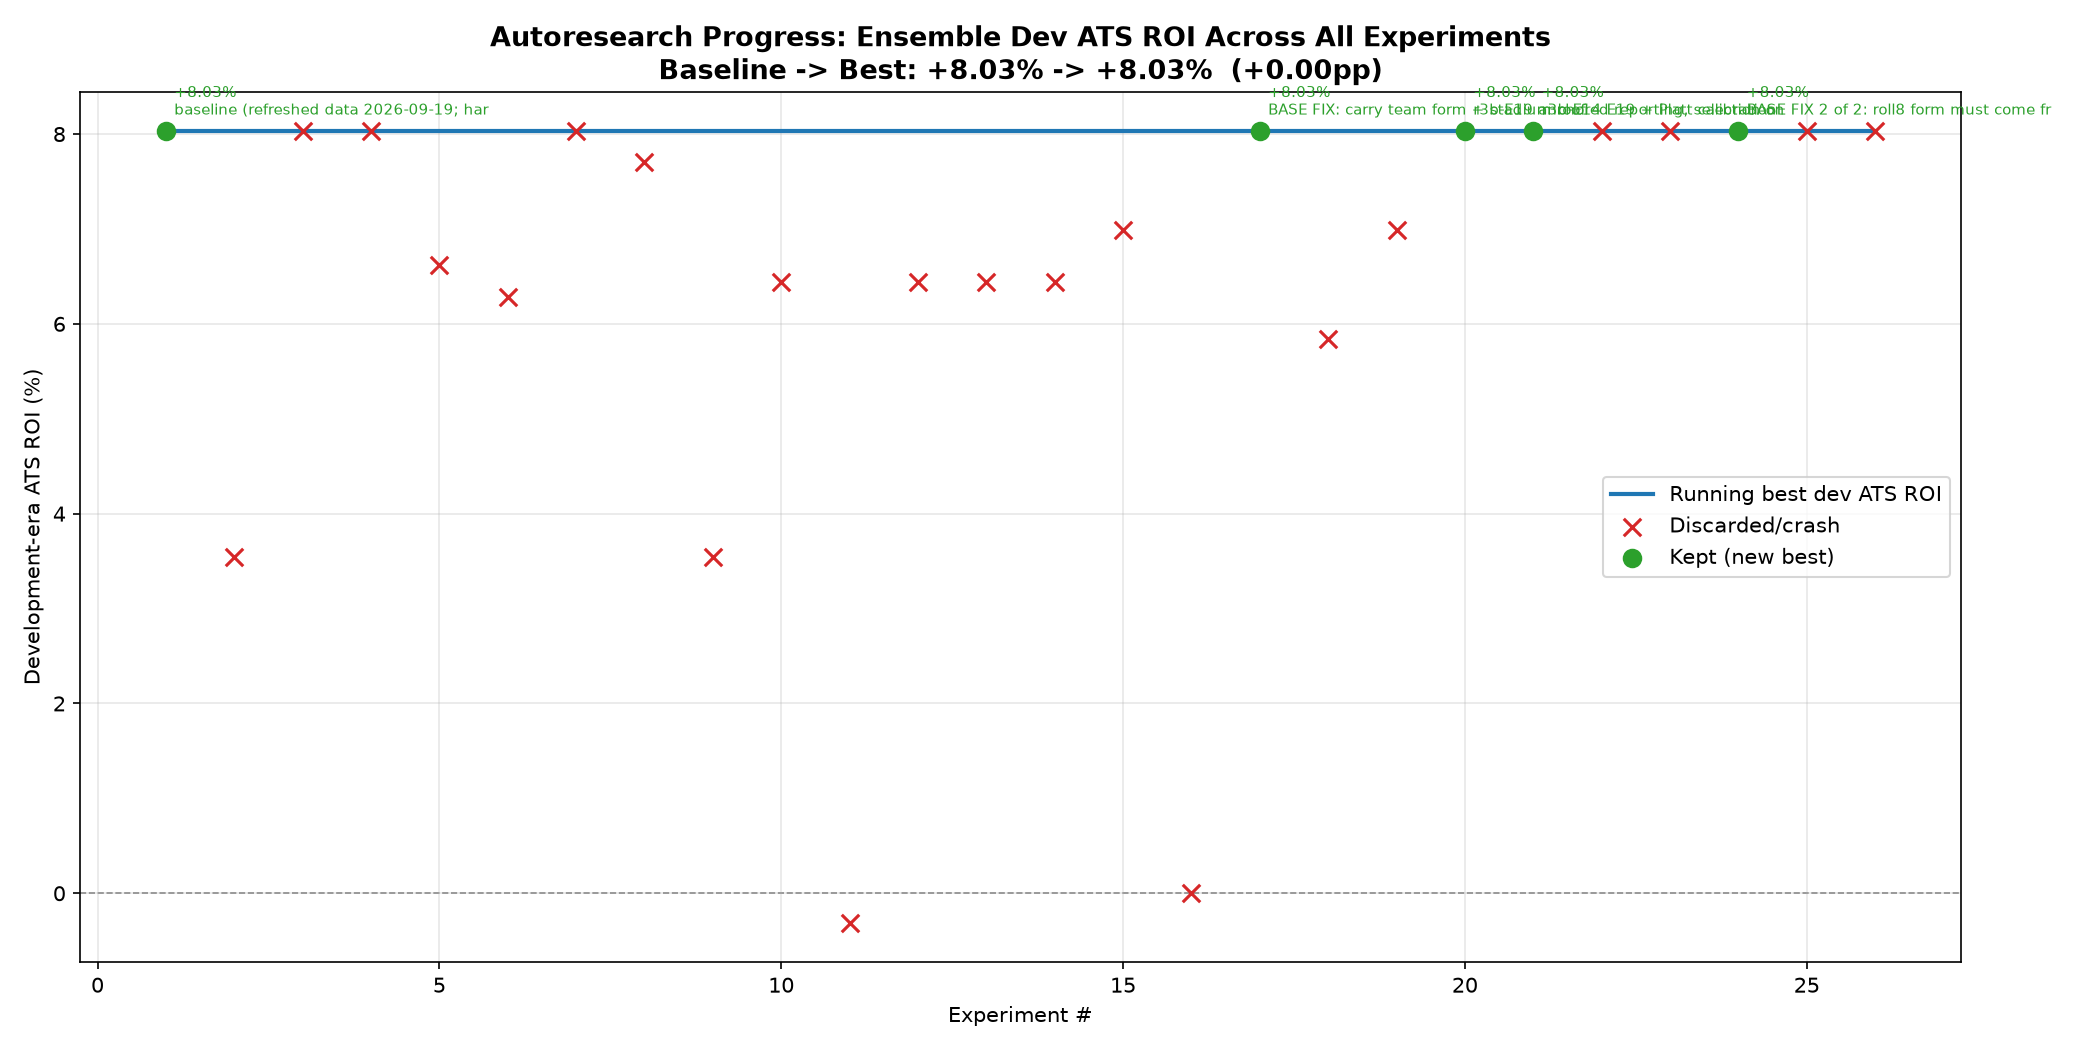
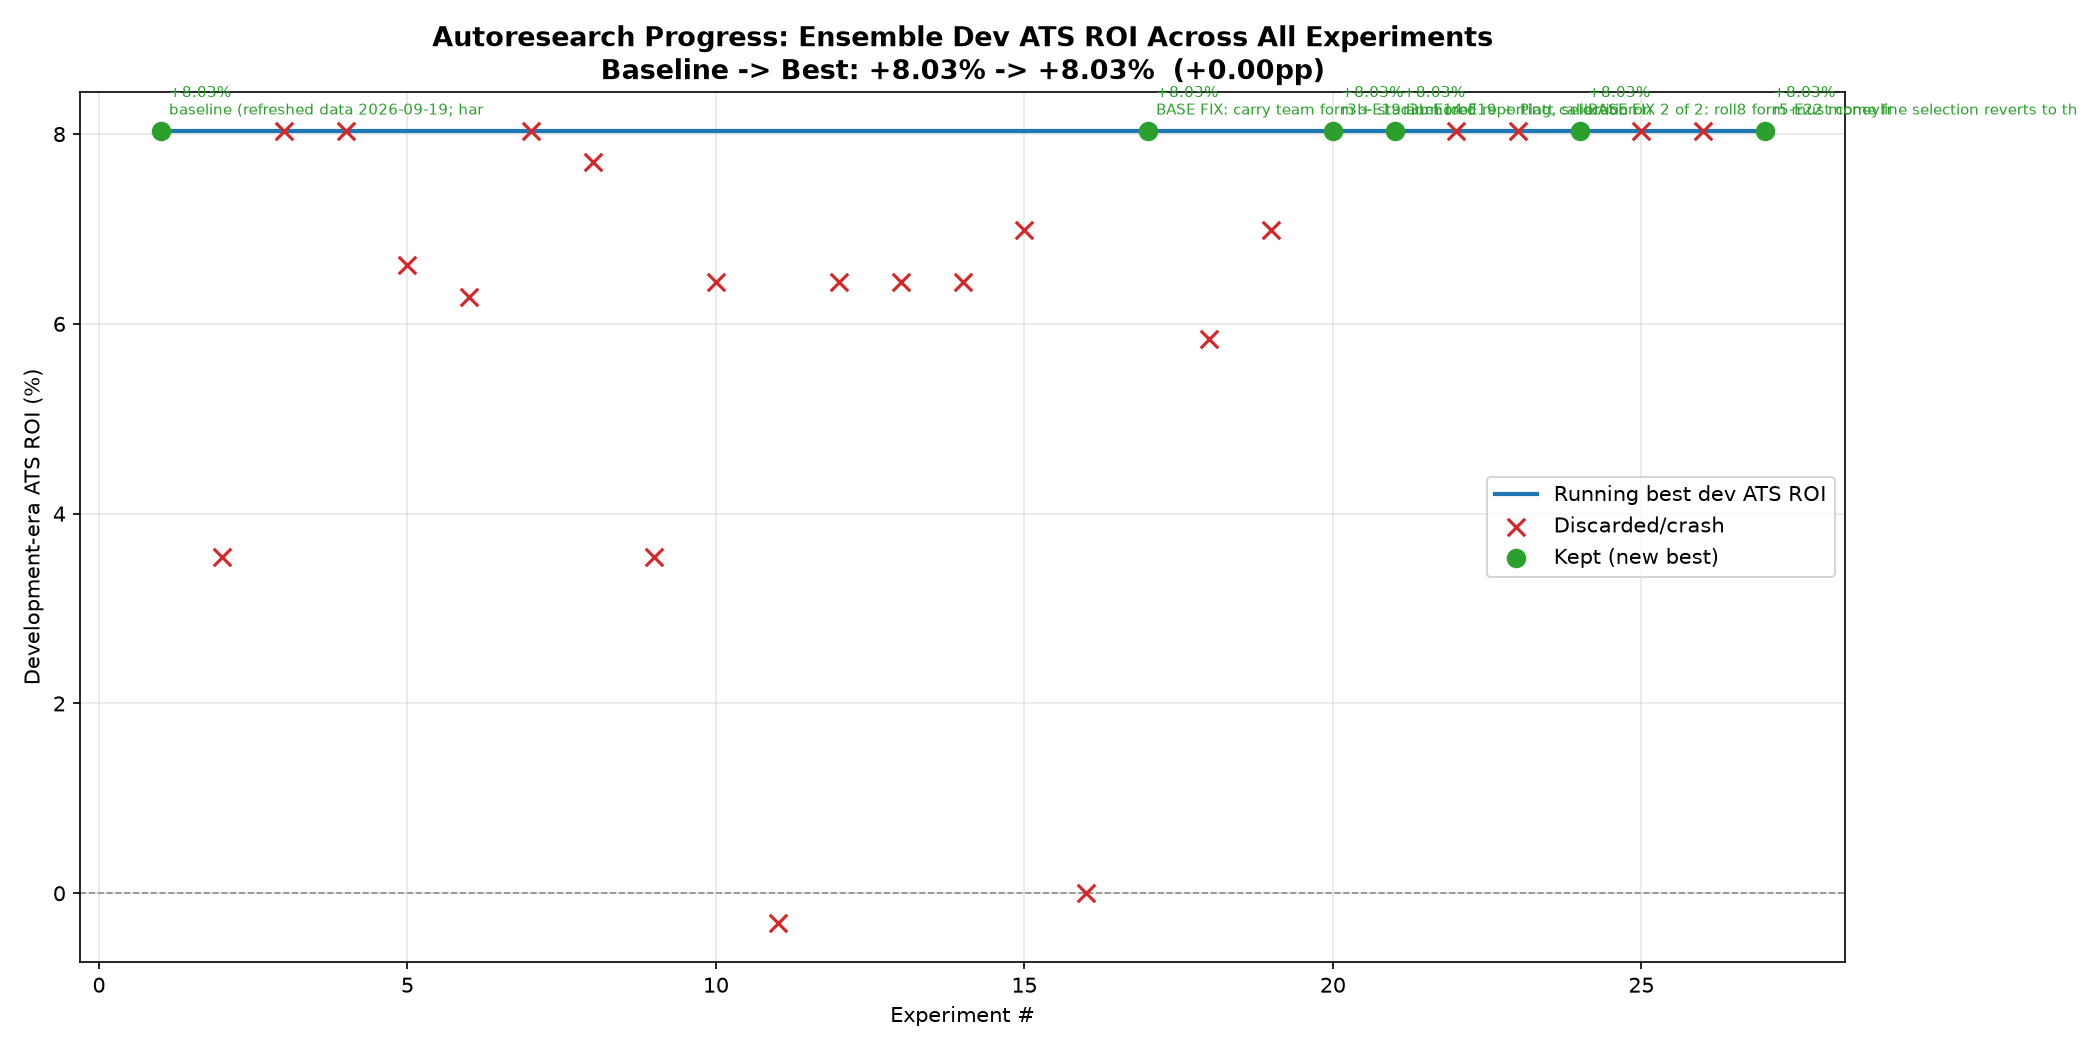
docs: README key finding, bug ledger, ledgers and charts for the adopted model
README's headline claim -- "the model does not beat the market baseline on
raw prediction accuracy" -- is no longer true and has been rewritten. The
replacement is careful about what the result is: the ensemble matches the
closing line on MAE and beats it on RMSE and moneyline Brier, but it does so
by anchoring to the line with a coefficient of roughly 0.11-0.35, i.e. the
model supplies a small correctly-sized correction rather than out-predicting
the market. It also records that the bet book is deliberately frozen, why the
spread and the moneyline behave differently under anchoring (the spread
cancels, the probability does not; Kendall tau 0.25-0.32), and that six
attempts at a moneyline selector under anchoring failed.

BUGS.md: item 4 closed with a real root cause rather than the earlier
inference. New-ScheduledTaskSettingsSet defaults both battery guards to
true, so the task would not start on battery (reproduced: ten minutes
Queued, no log, result 0x0) and a running task was killed on losing mains
power -- which explains the two 0xC000013A deaths after wake-from-sleep
better than the visible-console theory. Fixed and verified by running it on
battery to completion. Item 11 closed. New item 13 records the ridge
moneyline book moving under the global Platt switch, accepted.

diff --git a/BUGS.md b/BUGS.md
@@ -88,17 +88,37 @@ rating values were correct; only the presentation was wrong.
 **Fix:** `played` flag on the history; chart ends on the current rating;
 leaderboard labelled from the last completed game.
 
-## 4. Weekly refresh scheduled task dies silently after wake-from-sleep — PARTIALLY FIXED
+## 4. Weekly refresh scheduled task dies silently after wake-from-sleep — FIXED (root cause found 2026-09-20)
 
-**Status:** task re-registered 2026-09-20 with `-WindowStyle Hidden` (the
-console that could be closed no longer appears). The more robust fix, an
-S4U principal so the task does not depend on the interactive session at
-all, was refused with "Access is denied" from an unelevated shell;
-`scripts/setup_weekly_refresh.ps1` now tries S4U first and falls back, so
-rerunning it from an elevated PowerShell upgrades the task. A manual
-`Start-ScheduledTask` test is scheduled after round 3 finishes (it rewrites
-the outputs the reviewers are reading). Next scheduled run: Tue 2026-09-22
-08:00. Root cause remains inferred, not proven.
+**Root cause: the two battery guards, which `New-ScheduledTaskSettingsSet`
+defaults to true and the original setup script never overrode.**
+
+- `DisallowStartIfOnBatteries` means the task will not start at all on
+  battery. Reproduced directly: a manual `Start-ScheduledTask` on battery sat
+  in state "Queued" for over ten minutes, never ran, `LastTaskResult` 0x0, no
+  log file created.
+- `StopIfGoingOnBatteries` means a *running* task is forcibly terminated the
+  moment the machine drops to battery. This is a better explanation for the
+  two 0xC000013A (STATUS_CONTROL_C_EXIT) deaths than the visible-console
+  theory originally recorded here: a laptop waking from sleep is exactly when
+  it is likely to be on battery, and a forced stop mid-run gives an abrupt
+  exit code and a truncated log. Both failures were ~7 s after launch with
+  0-byte logs, right after a late start following wake.
+
+**Fix:** `scripts/setup_weekly_refresh.ps1` now passes
+`-AllowStartIfOnBatteries -DontStopIfGoingOnBatteries`. A weekly two-minute
+refresh has no reason to be power-gated. `-WindowStyle Hidden` is kept as a
+second, independent hardening (a visible console is another way for a run to
+be killed).
+
+**Verified:** re-registered and triggered manually while on battery at 80%
+charge. Ran to completion, result 0x0, 16 KB log, full pipeline plus 93 rows
+appended to the picks log. Next scheduled run Tue 2026-09-22 08:00.
+
+**Still optional:** an S4U principal, so the task does not depend on an
+interactive session at all, needs the "log on as a batch job" right and is
+refused unelevated. The script attempts it first and falls back with a
+warning; rerunning it from an elevated PowerShell upgrades the task.
 
 **Where:** Windows task "NFL Model Weekly Refresh" (`scripts/setup_weekly_refresh.ps1`).
 **What:** died 2026-08-18 and 2026-09-15 with result 0xC000013A
@@ -109,7 +129,33 @@ that can be closed, and only while the user is logged on.
 **Fix:** register the action with `-WindowStyle Hidden` and an S4U principal
 so it does not depend on the interactive session; verify with a manual run.
 
-## 11. Dashboard would read the wrong edge column under an anchored ensemble — OPEN (blocks adoption of E19)
+## 13. LightGBM and ridge moneyline books move under the global Platt switch — ACCEPTED, not a defect
+
+**What:** adopting Platt in place of isotonic (`CALIBRATION_METHOD`) changes
+every model's *reported* probability, and for models that are not anchored
+the reported probability is also the selection one. So `ridge_baseline`'s
+moneyline book moved to 596 bets from the baseline's 623 (139 added, 166
+dropped, profit 64.6 against 58.1). `lgbm` is unchanged because
+`calibrate=False` for it, and both ATS books are unchanged.
+**Why it is accepted:** the ensemble is the flagship and is unaffected, its
+moneyline book being frozen bit-for-bit by item 14's selector split. Ridge
+and LightGBM are reported as comparison models. Verified independently that
+this is the calibrator and not the selector freeze: ridge has no
+`predicted_margin_unanchored` column, and its `model_home_prob_select`
+equals `model_home_prob` exactly on all 3,579 rows.
+**If the desk wants ridge frozen too,** that is a separate decision about
+whether `ML_MARKET_MODE` should also pin the calibrator for unanchored
+models.
+
+## 11. Dashboard would read the wrong edge column under an anchored ensemble — FIXED (c1d54db)
+
+**Status:** `selection_edge_col()` and `pipeline_threshold_col()` in the
+dashboard prefer `*_edge_select` / `*_select_threshold_used` when present and
+fall back to the reported columns for older parquets; the three call sites
+pass `edge_col` through. Verified after the change: all six model/market
+combinations reproduce the saved book bet-for-bet with zero profit
+difference. Before it, the moneyline regrade gave 11 bets against the saved
+647 and the spread 573 against 788.
 
 **Where:** `app/streamlit_app.py` `regraded_bets` and the two `decide_bet_side`
 call sites; `backtesting.regrade_ats` / `decide_bet_side` default to `ats_edge`.

diff --git a/README.md b/README.md
@@ -47,22 +47,63 @@ lines — spread and moneyline — from 2010 through the latest completed season
 
 ## Key finding
 
-**The model does not beat the market baseline on raw prediction accuracy.**
-All three models have higher MAE/RMSE/Brier score than simply reading the
-market's own closing line as the prediction (see the Diagnostics tab). Any
-positive backtest ROI elsewhere should be read cautiously, not as confirmed
-evidence of skill — this is exactly what you'd expect from an efficient
-market and a fundamentals model built on largely public information. That
-gap has narrowed since QB-level features were added and again with the
-ensemble (see below), but it has not closed: ensemble MAE 10.13 vs. market
-9.93.
+**The ensemble now matches the closing line on MAE and beats it on RMSE and
+on moneyline Brier score — but read carefully what that does and does not
+mean.** It is achieved by *anchoring* the prediction to the line:
+`predicted_margin = spread_line + b·(model − spread_line)`, with the single
+coefficient `b` fit through the origin on strictly earlier seasons (see
+`config.ENSEMBLE_MARKET_ANCHOR`). Measured walk-forward, `b` runs about
+0.11–0.35, which is the honest statement that only a fifth to a third of the
+model's disagreement with the market survives contact with reality. The
+model is therefore not out-predicting the market from fundamentals; it is
+adding a small, correctly-sized correction on top of it. That is still a
+real improvement on the previous state, where the same shrinkage was applied
+only at the betting layer while every *reported* number — the Diagnostics
+tab, the probabilities, the live board — used the unshrunk prediction.
 
-The one genuinely new result: for the first time, a model — the ensemble —
-shows a **positive flat-stake ROI in both markets at once** (ATS +0.4%, ML
-+0.3%). Bootstrapped 95% confidence intervals on both cross zero
-comfortably (ATS: [-3.7%, +4.7%], ML: [-4.4%, +5.2%]), so this is *not*
-statistically distinguishable from noise yet — treat it as "the most
-promising model so far," not "found an edge."
+Development era, ensemble, against the closing line:
+
+| | Before anchoring | Now |
+|---|---|---|
+| MAE gap vs market | +0.192 | **−0.001** |
+| RMSE gap vs market | +0.172 | **−0.018** |
+| Moneyline Brier vs market | +0.0058 | **−0.0006** |
+| Moneyline calibration slope | 0.775 | **0.995** |
+| Cover-probability calibration slope | 0.003 | **0.520** |
+
+A calibration slope of 1.0 is perfectly calibrated. The moneyline Brier line
+is the first time in this project that the model's win probability has beaten
+the market's.
+
+**The bet book is unchanged, deliberately.** Anchoring rescales the
+selection signal, and re-deriving thresholds on the rescaled scale would
+double-apply a shrinkage the betting layer already estimates — that is
+exactly what cost 30% of the bets in the first attempts. Both markets
+therefore select on the frozen pre-anchoring signal (`ats_edge_select` /
+`ml_edge_select`), and the ensemble places precisely the bets the ROI
+numbers elsewhere in this README describe: 692 development and 96 holdout
+ATS bets, 493 and 154 moneyline, bet for bet, with identical profit on every
+one. Two independent reviews verified that against the pre-change tables.
+
+Flat-stake ROI is therefore unchanged: ATS +8.0% development (95% CI
+[+1.1%, +15.2%]) and +5.3% holdout; moneyline +12.1% development (95% CI
+[+0.2%, +24.6%]) and +2.1% holdout. Those intervals are wide and the holdout
+samples small, so this remains "the most promising model so far," not "found
+an edge."
+
+**Why the moneyline selector is frozen rather than rebuilt.** For the spread,
+anchoring cancels: `anchored − spread = b·(model − spread)`, a single
+positive scalar per season, so the ranking of games is identical and
+reporting one while selecting on the other is information-free. In the
+probability domain it does not cancel — each game picks up a different
+intercept `(1−b)·spread_line` and is then divided by its own predicted std —
+so an anchored probability is a genuinely *different* selector, not a
+rescaling. Measured Kendall tau between the old and new selection
+magnitudes: 0.25–0.32. Six attempts to build a moneyline selector under
+anchoring (logistic stacking plus an adaptive bar, a break-even bar, and
+selecting on the anchored-chain legacy probability) either collapsed out of
+sample or bought volume by loosening the bar. All are recorded in
+`results.tsv`; the open question is flagged in `BUGS.md`.
 
 ## What's worked, and what hasn't (in order tried)
 
